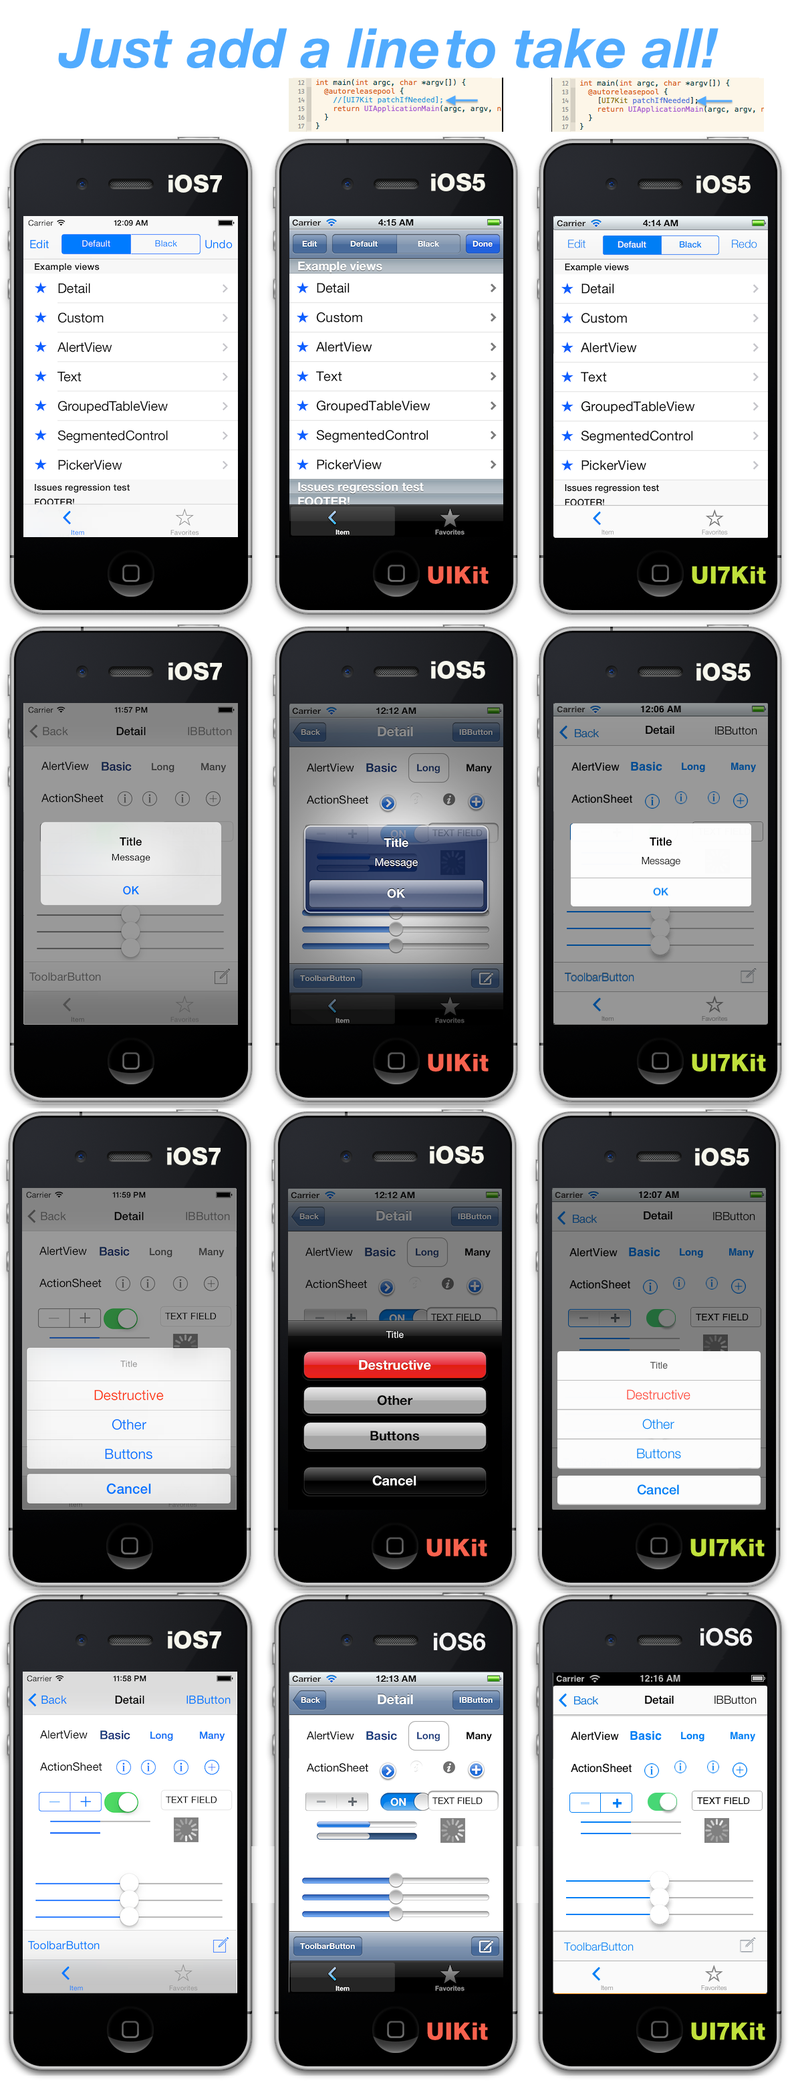
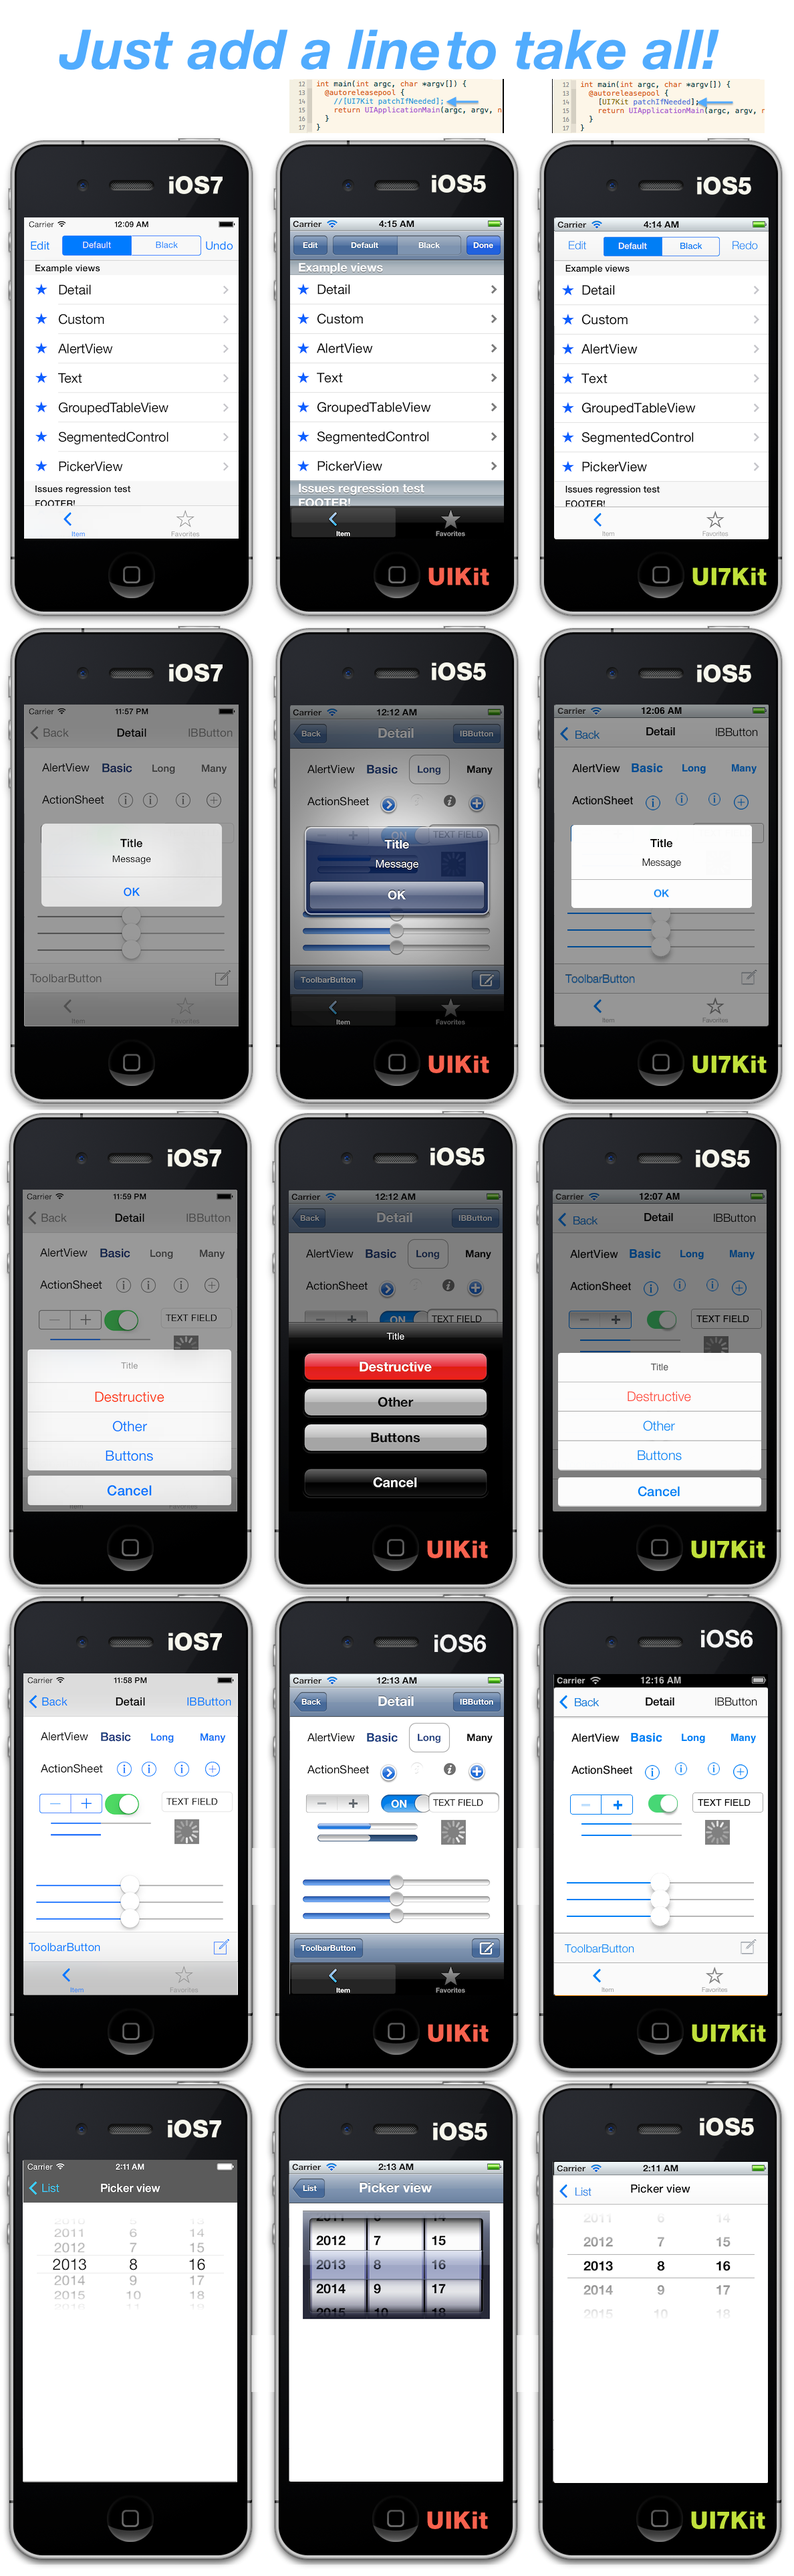
example of picker view

diff --git a/UI7KitCatalog/UICPickerViewController.m b/UI7KitCatalog/UICPickerViewController.m
@@ -1,0 +1,74 @@
+//
+//  UICPickerViewController.m
+//  UI7Kit
+//
+//  Created by Jeong YunWon on 13. 8. 15..
+//  Copyright (c) 2013 youknowone.org. All rights reserved.
+//
+
+#import "UICPickerViewController.h"
+
+@interface UICPickerViewController ()
+
+@end
+
+@implementation UICPickerViewController
+
+- (id)initWithNibName:(NSString *)nibNameOrNil bundle:(NSBundle *)nibBundleOrNil
+{
+    self = [super initWithNibName:nibNameOrNil bundle:nibBundleOrNil];
+    if (self) {
+        // Custom initialization
+    }
+    return self;
+}
+
+- (void)viewDidLoad
+{
+    [super viewDidLoad];
+	// Do any additional setup after loading the view.
+}
+
+- (void)didReceiveMemoryWarning
+{
+    [super didReceiveMemoryWarning];
+    // Dispose of any resources that can be recreated.
+}
+
+- (NSInteger)numberOfComponentsInPickerView:(UIPickerView *)pickerView {
+    return 3;
+}
+
+- (NSInteger)pickerView:(UIPickerView *)pickerView numberOfRowsInComponent:(NSInteger)component {
+    switch (component) {
+        case 0:
+            return 20;
+        case 1:
+            return 12;
+        case 2:
+            return 30;
+        default:
+            break;
+    }
+    return 0;
+}
+
+- (NSString *)pickerView:(UIPickerView *)pickerView titleForRow:(NSInteger)row forComponent:(NSInteger)component {
+    NSString *title = nil;
+    switch (component) {
+        case 0: {
+            title = [@"%d" format0:nil, 2000 + row];
+        }   break;
+        case 1: {
+            title = [@"%d" format0:nil, 1 + row];
+        }
+        case 2: {
+            title = [@"%d" format0:nil, 1 + row];
+        }
+        default:
+            break;
+    }
+    return title;
+}
+
+@end

diff --git a/UI7KitCatalog/UICUserDefaults.m b/UI7KitCatalog/UICUserDefaults.m
@@ -49,4 +49,40 @@
     [self setObject:@(components.blue) forKey:@"GlobalTintColorBlue"];
 }
 
+- (UIColor *)globalBackgroundColor {
+    NSNumber *red = [self objectForKey:@"GlobalBackgroundColorRed"];
+    NSNumber *green = [self objectForKey:@"GlobalBackgroundColorGreen"];
+    NSNumber *blue = [self objectForKey:@"GlobalBackgroundColorBlue"];
+
+    if (red && green && blue) {
+        return [UIColor colorWithRed:red.floatValue green:green.floatValue blue:blue.floatValue alpha:1.0f];
+    }
+
+    return nil;
+}
+
+- (void)setGlobalBackgroundColor:(UIColor *)globalBackgroundColor {
+    UIAColorComponents *components = globalBackgroundColor.components;
+
+    [self setObject:@(components.red) forKey:@"GlobalBackgroundColorRed"];
+    [self setObject:@(components.green) forKey:@"GlobalBackgroundColorGreen"];
+    [self setObject:@(components.blue) forKey:@"GlobalBackgroundColorBlue"];
+}
+
+@end
+
+
+@implementation UIViewController (BackgroundColor)
+
+- (void)viewWillAppear:(BOOL)animated {
+    if ([self isKindOfClass:[UITableViewController class]]) {
+        return;
+    }
+    UIColor *color = UICUserDefaults.globalBackgroundColor;
+    if (color == nil) {
+        color = [UIColor whiteColor];
+    }
+    self.view.backgroundColor = UICUserDefaults.globalBackgroundColor;
+}
+
 @end

diff --git a/UI7KitCatalog/UICGlobalSettingsViewController.m b/UI7KitCatalog/UICGlobalSettingsViewController.m
@@ -74,3 +74,36 @@
 }
 
 @end
+
+
+@implementation UICBackgroundColorSettingsViewController
+
+- (void)viewWillAppear:(BOOL)animated {
+    [super viewWillAppear:animated];
+
+    UIColor *color = UICUserDefaults.globalBackgroundColor;
+    if (color == nil) {
+        color = [UIColor whiteColor];
+    }
+    UIAColorComponents *components = color.components;
+    self.redSlider.value = components.red;
+    self.greenSlider.value = components.green;
+    self.blueSlider.value = components.blue;
+
+    color = UICUserDefaults.globalTintColor;
+    if (color == nil) {
+        color = [UI7Kit kit].tintColor;
+    }
+    self.redSlider.minimumTrackTintColor = color;
+    self.greenSlider.minimumTrackTintColor = color;
+    self.blueSlider.minimumTrackTintColor = color;
+}
+
+- (void)colorChanged:(id)sender {
+    UIColor *color = [UIColor colorWithRed:self.redSlider.value green:self.greenSlider.value blue:self.blueSlider.value alpha:1.0];
+    self.view.window.backgroundColor = color;
+    self.view.backgroundColor = color;
+    UICUserDefaults.globalBackgroundColor = color;
+}
+
+@end

diff --git a/UI7KitCatalog/UICPickerViewController.h b/UI7KitCatalog/UICPickerViewController.h
@@ -1,0 +1,14 @@
+//
+//  UICPickerViewController.h
+//  UI7Kit
+//
+//  Created by Jeong YunWon on 13. 8. 15..
+//  Copyright (c) 2013 youknowone.org. All rights reserved.
+//
+
+#import <UIKit/UIKit.h>
+
+@interface UICPickerViewController : UIViewController<UIPickerViewDelegate, UIPickerViewDataSource>
+
+
+@end

diff --git a/UI7KitCatalog/UICGlobalSettingsViewController.h b/UI7KitCatalog/UICGlobalSettingsViewController.h
@@ -27,3 +27,12 @@
 - (IBAction)colorChanged:(id)sender;
 
 @end
+
+
+@interface UICBackgroundColorSettingsViewController : UIViewController
+
+@property(nonatomic,strong) IBOutlet UISlider *redSlider, *greenSlider, *blueSlider;
+
+- (IBAction)colorChanged:(id)sender;
+
+@end

diff --git a/UI7KitCatalog/UICUserDefaults.h b/UI7KitCatalog/UICUserDefaults.h
@@ -15,5 +15,6 @@
 @property(nonatomic) BOOL globalPatch;
 @property(nonatomic) UIBarStyle globalBarStyle;
 @property(nonatomic) UIColor *globalTintColor;
+@property(nonatomic) UIColor *globalBackgroundColor;
 
 @end
